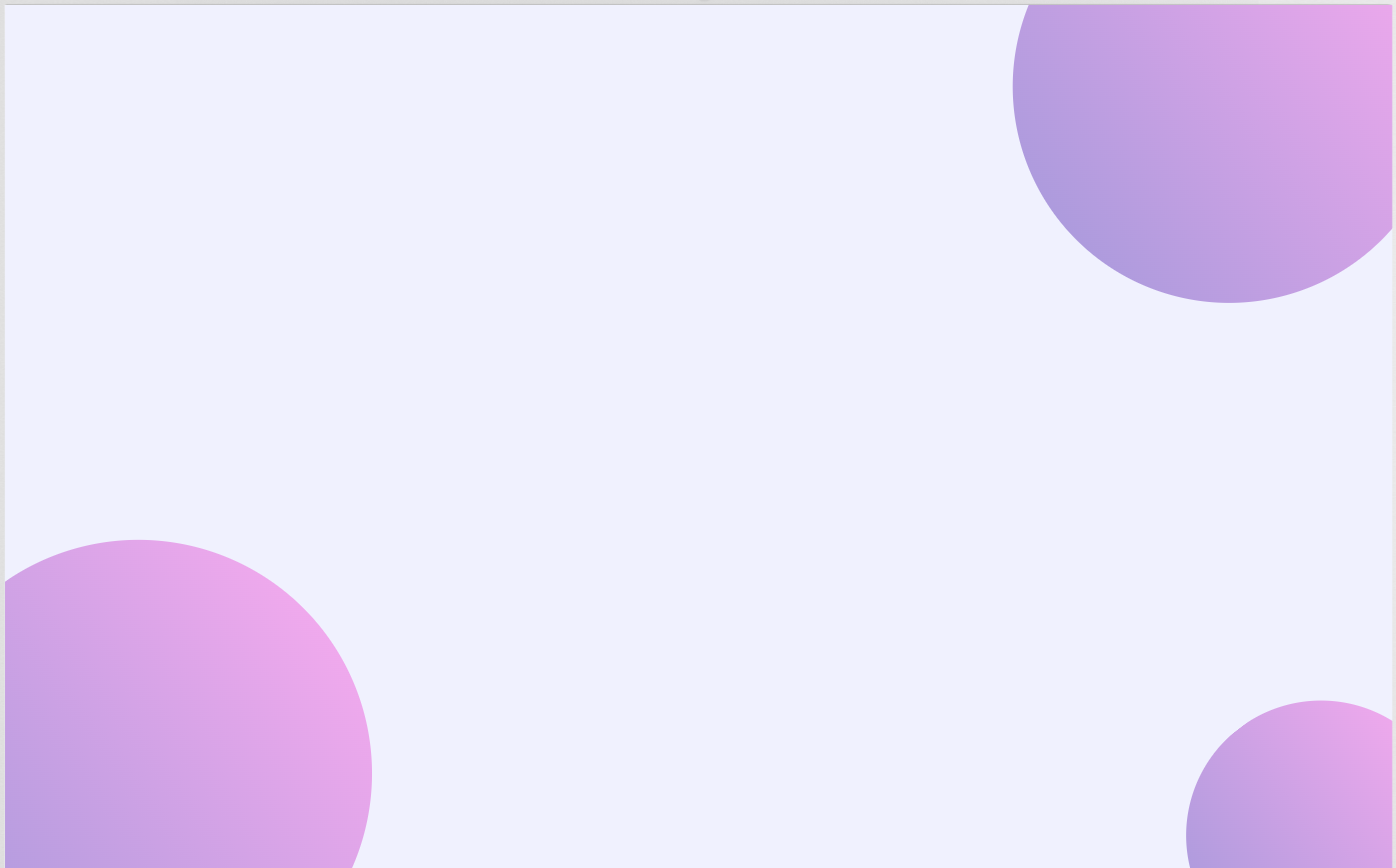
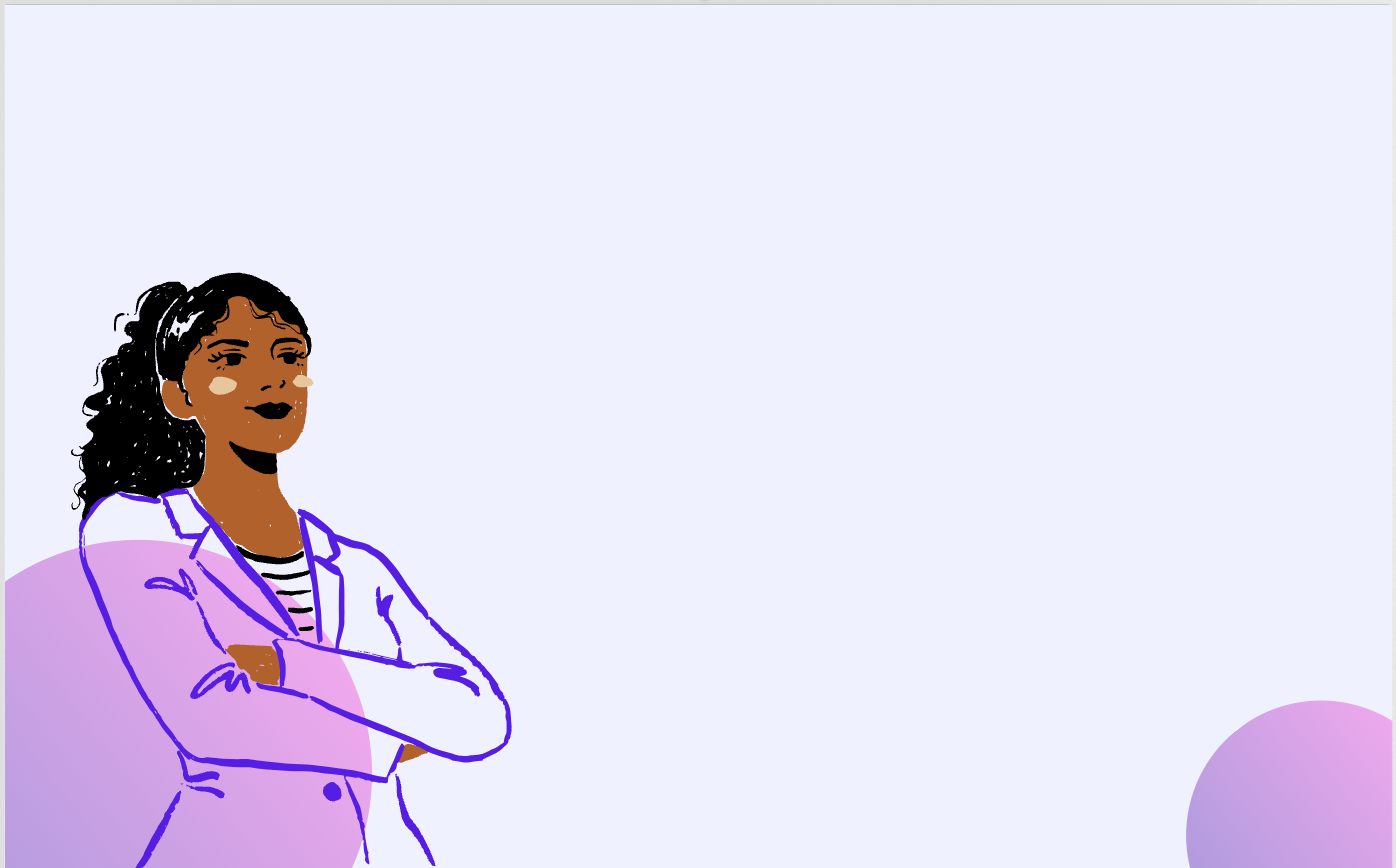
dashboard updates

diff --git a/src/layouts/dashboard/index.js b/src/layouts/dashboard/index.js
@@ -1,161 +1,132 @@
-/**
-=========================================================
-* Material Dashboard 2 React - v2.2.0
-=========================================================
-
-* Product Page: https://www.creative-tim.com/product/material-dashboard-react
-* Copyright 2023 Creative Tim (https://www.creative-tim.com)
-
-Coded by www.creative-tim.com
-
- =========================================================
-
-* The above copyright notice and this permission notice shall be included in all copies or substantial portions of the Software.
-*/
-
-// @mui material components
 import Grid from "@mui/material/Grid";
-
-// Material Dashboard 2 React components
+import { useState } from "react";
+import { Card, CardContent, TextField, Button, List, ListItem, ListItemText } from "@mui/material";
 import MDBox from "components/MDBox";
-
-// Material Dashboard 2 React example components
+import MDTypography from "components/MDTypography";
 import DashboardLayout from "examples/LayoutContainers/DashboardLayout";
 import DashboardNavbar from "examples/Navbars/DashboardNavbar";
 import Footer from "examples/Footer";
-import ReportsBarChart from "examples/Charts/BarCharts/ReportsBarChart";
-import ReportsLineChart from "examples/Charts/LineCharts/ReportsLineChart";
-import ComplexStatisticsCard from "examples/Cards/StatisticsCards/ComplexStatisticsCard";
-
-// Data
-import reportsBarChartData from "layouts/dashboard/data/reportsBarChartData";
-import reportsLineChartData from "layouts/dashboard/data/reportsLineChartData";
-
-// Dashboard components
-import Projects from "layouts/dashboard/components/Projects";
-import OrdersOverview from "layouts/dashboard/components/OrdersOverview";
 
 function Dashboard() {
-  const { sales, tasks } = reportsLineChartData;
+  const [todo, setTodo] = useState("");
+  const [todos, setTodos] = useState([]);
+
+  const addTodo = () => {
+    if (todo.trim() !== "") {
+      setTodos([...todos, todo]);
+      setTodo("");
+    }
+  };
 
   return (
     <DashboardLayout>
-      <DashboardNavbar />
-      <MDBox py={3}>
-        <Grid container spacing={3}>
-          <Grid item xs={12} md={6} lg={3}>
-            <MDBox mb={1.5}>
-              <ComplexStatisticsCard
-                color="dark"
-                icon="weekend"
-                title="Bookings"
-                count={281}
-                percentage={{
-                  color: "success",
-                  amount: "+55%",
-                  label: "than lask week",
-                }}
-              />
-            </MDBox>
-          </Grid>
-          <Grid item xs={12} md={6} lg={3}>
-            <MDBox mb={1.5}>
-              <ComplexStatisticsCard
-                icon="leaderboard"
-                title="Today's Users"
-                count="2,300"
-                percentage={{
-                  color: "success",
-                  amount: "+3%",
-                  label: "than last month",
-                }}
-              />
-            </MDBox>
-          </Grid>
-          <Grid item xs={12} md={6} lg={3}>
-            <MDBox mb={1.5}>
-              <ComplexStatisticsCard
-                color="success"
-                icon="store"
-                title="Revenue"
-                count="34k"
-                percentage={{
-                  color: "success",
-                  amount: "+1%",
-                  label: "than yesterday",
-                }}
-              />
-            </MDBox>
-          </Grid>
-          <Grid item xs={12} md={6} lg={3}>
-            <MDBox mb={1.5}>
-              <ComplexStatisticsCard
-                color="primary"
-                icon="person_add"
-                title="Followers"
-                count="+91"
-                percentage={{
-                  color: "success",
-                  amount: "",
-                  label: "Just updated",
-                }}
-              />
-            </MDBox>
-          </Grid>
-        </Grid>
-        <MDBox mt={4.5}>
+      <MDBox
+        sx={{
+          backgroundImage: `url(${require("assets/images/Back.png")})`,
+          backgroundSize: "cover",
+          backgroundPosition: "center",
+          backgroundRepeat: "no-repeat",
+          minHeight: "100vh",
+          px: 2,
+        }}
+      >
+        <DashboardNavbar />
+
+        {/* ✅ Hero Section */}
+        <MDBox mt={4} mb={2} textAlign="center">
+          <MDTypography
+            variant="h1"
+            fontWeight="bold"
+            sx={{
+              fontFamily: "'Dancing Script', cursive",
+              color: "purple",
+              transition: "all 0.8s ease-in-out",
+              ":hover": { letterSpacing: "3px" },
+            }}
+          >
+            SheBalance
+          </MDTypography>
+
+          <MDTypography variant="h4" sx={{ fontFamily: "'Poppins', sans-serif", color: "purple" }}>
+            Empowering Women through Wellness, Knowledge, and Community.
+          </MDTypography>
+
+          <MDTypography
+            variant="subtitle2"
+            sx={{ fontFamily: "'Poppins', sans-serif", color: "white", mt: 1 }}
+          >
+            "Self-care is how you take your power back." – Lalah Delia
+          </MDTypography>
+        </MDBox>
+
+        <MDBox py={3}>
           <Grid container spacing={3}>
+            {/* 👋 User Greeting */}
             <Grid item xs={12} md={6} lg={4}>
-              <MDBox mb={3}>
-                <ReportsBarChart
-                  color="info"
-                  title="website vies"
-                  description="Last Campaign Performance"
-                  date="campaign sent 2 days ago"
-                  chart={reportsBarChartData}
-                />
-              </MDBox>
+
             </Grid>
+
+            {/* ✅ Habit Tracker */}
             <Grid item xs={12} md={6} lg={4}>
-              <MDBox mb={3}>
-                <ReportsLineChart
-                  color="success"
-                  title="daily sales"
-                  description={
-                    <>
-                      (<strong>+15%</strong>) increase in today sales.
-                    </>
-                  }
-                  date="updated 4 min ago"
-                  chart={sales}
-                />
-              </MDBox>
+            <Card>
+                                    <CardContent>
+                                      <MDTypography variant="h5" fontWeight="bold">
+                                        Welcome back, Simmi! 💜
+                                      </MDTypography>
+                                      <MDTypography variant="body2" color="text">
+                                        Ready to balance your goals today?
+                                      </MDTypography>
+                                    </CardContent>
+                                  </Card>
+
             </Grid>
-            <Grid item xs={12} md={6} lg={4}>
-              <MDBox mb={3}>
-                <ReportsLineChart
-                  color="dark"
-                  title="completed tasks"
-                  description="Last Campaign Performance"
-                  date="just updated"
-                  chart={tasks}
-                />
-              </MDBox>
+
+            {/* 🌟 Personalized Recommendations */}
+            <Grid item xs={12} md={12} lg={4}>
+              <Card>
+                <CardContent>
+                  <MDTypography variant="h6" fontWeight="bold">
+                    Recommended For You
+                  </MDTypography>
+                  <ul style={{ marginTop: 8 }}>
+                    <li>
+                      <MDTypography variant="body2">🌿 10-Min Mindfulness Meditation</MDTypography>
+                    </li>
+                    <li>
+                      <MDTypography variant="body2">🍎 Healthy Meal Plan for the Week</MDTypography>
+                    </li>
+                    <li>
+                      <MDTypography variant="body2">📚 Learn: Emotional Intelligence</MDTypography>
+                    </li>
+                  </ul>
+                </CardContent>
+              </Card>
             </Grid>
           </Grid>
         </MDBox>
-        <MDBox>
-          <Grid container spacing={3}>
-            <Grid item xs={12} md={6} lg={8}>
-              <Projects />
-            </Grid>
-            <Grid item xs={12} md={6} lg={4}>
-              <OrdersOverview />
-            </Grid>
-          </Grid>
-        </MDBox>
+
+
+
+        <MDBox py={3}>
+                  <Grid container spacing={3}>
+                    {/* 👋 User Greeting */}
+                    <Grid item xs={12} md={6} lg={4}>
+
+                    </Grid>
+
+                    {/* ✅ Habit Tracker */}
+                    <Grid item xs={12} md={6} lg={4}>
+
+                    </Grid>
+
+                    {/* 🌟 Personalized Recommendations */}
+                    <Grid item xs={12} md={12} lg={4}>
+
+                    </Grid>
+                  </Grid>
+                </MDBox>
+
       </MDBox>
-      <Footer />
     </DashboardLayout>
   );
 }

diff --git a/src/App.js b/src/App.js
@@ -167,7 +167,7 @@ const chatBubble = showChatBubble && (
             <Sidenav
               color={sidenavColor}
               brand={(transparentSidenav && !darkMode) || whiteSidenav ? brandDark : brandWhite}
-              brandName="MomSync"
+              brandName="SheBalance"
               routes={routes}
               onMouseEnter={handleOnMouseEnter}
               onMouseLeave={handleOnMouseLeave}
@@ -192,7 +192,7 @@ const chatBubble = showChatBubble && (
           <Sidenav
             color={sidenavColor}
             brand={(transparentSidenav && !darkMode) || whiteSidenav ? brandDark : brandWhite}
-            brandName="MomSync"
+            brandName="SheBalance"
             routes={routes}
             onMouseEnter={handleOnMouseEnter}
             onMouseLeave={handleOnMouseLeave}

diff --git a/src/examples/Sidenav/SidenavRoot.js b/src/examples/Sidenav/SidenavRoot.js
@@ -26,15 +26,8 @@ export default styled(Drawer)(({ theme, ownerState }) => {
   const { xxl } = boxShadows;
   const { pxToRem, linearGradient } = functions;
 
-  let backgroundValue = darkMode
-    ? background.sidenav
-    : linearGradient(gradients.dark.main, gradients.dark.state);
+  let backgroundValue = "#8e24aa"; // Deep Purple - override all themes
 
-  if (transparentSidenav) {
-    backgroundValue = transparent.main;
-  } else if (whiteSidenav) {
-    backgroundValue = white.main;
-  }
 
   // styles for the sidenav when miniSidenav={false}
   const drawerOpenStyles = () => ({

diff --git a/public/index.html b/public/index.html
@@ -22,6 +22,7 @@ Software.
     <meta name="theme-color" content="#1A73E8" />
     <link rel="apple-touch-icon" sizes="76x76" href="%PUBLIC_URL%/apple-icon.png" />
     <link rel="manifest" href="%PUBLIC_URL%/manifest.json" />
+    <link href="https://fonts.googleapis.com/css2?family=Great+Vibes&family=Poppins:wght@400;600&display=swap" rel="stylesheet" />
     <title>Material Dashboard 2 React</title>
     <link
       rel="stylesheet"
